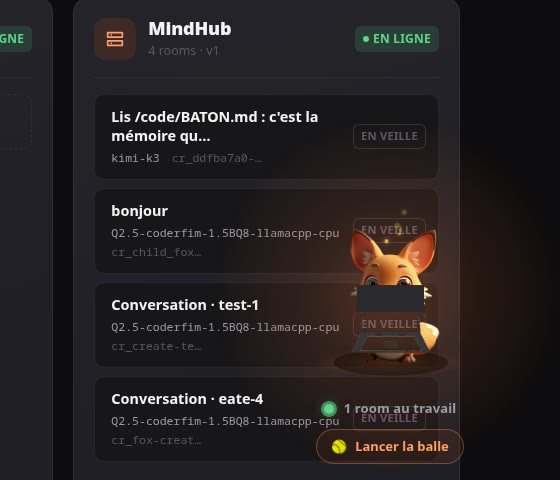
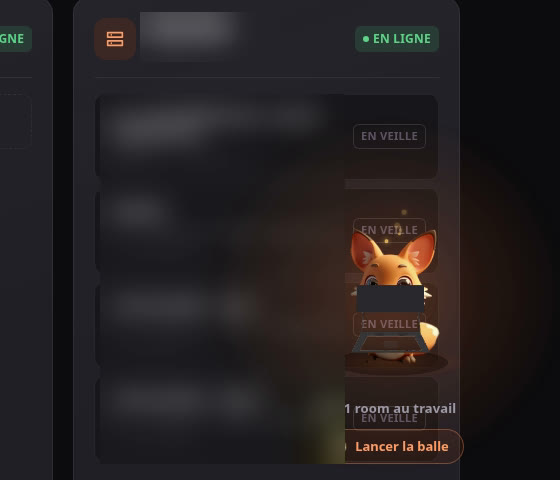
content: publish nothing that maps the infrastructure
Examples now use example ports instead of real internal ones, the
Proxmox page shows a generic layout instead of the real guests, the
proxy page no longer counts sites and certificates nor confesses
settings still to fix, and the app captures blur host names, thread
titles and usage numbers.

diff --git a/content/fr/homelab-proxy.html b/content/fr/homelab-proxy.html
@@ -3,8 +3,8 @@
 
 {{diagram:proxy}}
 
-<h2>Ce que fait le nôtre</h2>
-<p>Une petite VM (4 Go de RAM, partagés avec le filtrage DNS) publie 19 sites avec 35 certificats. Ce site a été mis en ligne par elle aujourd'hui : un conteneur qui sert les pages, une entrée de proxy, un certificat, environ quinze minutes.</p>
+<h2>La preuve que c'est simple</h2>
+<p>Ce site a été mis en ligne exactement ainsi : un conteneur qui sert les pages, une entrée de proxy, un certificat, environ quinze minutes. Une petite VM suffit pour tout un homelab.</p>
 
 <h2>1. Le nom</h2>
 <p>Chez votre registraire de domaine, créez un enregistrement <code>A</code> pour votre domaine et un pour chaque sous-domaine (ou un joker <code>*</code>), qui pointe vers votre adresse IP publique. Vérifiez depuis l'extérieur de votre réseau que le nom répond avant d'aller plus loin.</p>
@@ -33,12 +33,12 @@
 <ol>
 <li><strong>Hosts → Proxy Hosts → Add Proxy Host.</strong></li>
 <li>Noms de domaine : <code>votredomaine.tld</code>, <code>www.votredomaine.tld</code>.</li>
-<li>Redirigez vers l'adresse et le port du service sur votre réseau, par exemple <code>192.0.2.10</code> et <code>8096</code>.</li>
+<li>Redirigez vers l'adresse et le port du service sur votre réseau, par exemple <code>192.0.2.10</code> et <code>8000</code>.</li>
 <li>Onglet <strong>SSL</strong> : demandez un nouveau certificat Let's Encrypt, cochez <strong>Force SSL</strong>.</li>
 </ol>
 <p>Enregistrez : Let's Encrypt vérifie par le port 80 que le nom est bien à vous, délivre le certificat, et NPM le renouvelle avant qu'il n'expire.</p>
 
 <h2>Pièges</h2>
-<p class="note">Ne recopiez pas deux habitudes que nous devons encore corriger chez nous : le tag <code>:latest</code> (une mise à jour arrive le jour où vous redémarrez, sans prévenir ; épinglez une version et montez-la exprès) et <code>privileged: true</code> (le proxy n'a pas besoin du contrôle total de l'hôte).</p>
+<p class="note">Épinglez une version plutôt que <code>:latest</code> : sinon une mise à jour arrive le jour où vous redémarrez, sans prévenir. Et n'ajoutez jamais <code>privileged: true</code> par habitude : un proxy n'a pas besoin du contrôle total de l'hôte.</p>
 <p class="note">Si les demandes de certificat échouent en boucle, arrêtez de réessayer : Let's Encrypt limite le nombre de certificats identiques par semaine. Corrigez d'abord la cause, en général le port 80 non redirigé ou un nom qui ne répond pas encore.</p>
 <p class="note">Vous testez depuis chez vous et le site ne répond pas ? Certaines box ne savent pas reboucler vers leur propre adresse publique. Testez depuis un téléphone en données mobiles avant de soupçonner le proxy.</p>

diff --git a/content/en/homelab-proxy.html b/content/en/homelab-proxy.html
@@ -3,8 +3,8 @@
 
 {{diagram:proxy}}
 
-<h2>What ours does</h2>
-<p>One small VM (4 GB of RAM, shared with DNS filtering) publishes 19 sites with 35 certificates. This site went online through it today: a container serving the pages, one proxy entry, one certificate, about fifteen minutes.</p>
+<h2>Proof it is simple</h2>
+<p>This site went online exactly this way: a container serving the pages, one proxy entry, one certificate, about fifteen minutes. A small VM is plenty for a whole homelab.</p>
 
 <h2>1. The name</h2>
 <p>At your domain registrar, create an <code>A</code> record for your domain and one for each subdomain (or a wildcard <code>*</code>), pointing to your public IP address. Check from outside your network that the name resolves before going further.</p>
@@ -33,12 +33,12 @@
 <ol>
 <li><strong>Hosts → Proxy Hosts → Add Proxy Host.</strong></li>
 <li>Domain names: <code>yourdomain.tld</code>, <code>www.yourdomain.tld</code>.</li>
-<li>Forward to the service's address and port on your network, for example <code>192.0.2.10</code> and <code>8096</code>.</li>
+<li>Forward to the service's address and port on your network, for example <code>192.0.2.10</code> and <code>8000</code>.</li>
 <li>Tab <strong>SSL</strong>: request a new Let's Encrypt certificate, tick <strong>Force SSL</strong>.</li>
 </ol>
 <p>Save: Let's Encrypt checks that you own the name through port 80, issues the certificate, and NPM renews it before it expires.</p>
 
 <h2>Traps</h2>
-<p class="note">Do not copy two habits we still have to fix ourselves: the <code>:latest</code> tag (an update arrives the day you restart, unannounced; pin a version and upgrade on purpose) and <code>privileged: true</code> (the proxy does not need full control of the host).</p>
+<p class="note">Pin a version instead of <code>:latest</code>: otherwise an update arrives the day you restart, unannounced. And never add <code>privileged: true</code> out of habit: a proxy does not need full control of the host.</p>
 <p class="note">If certificate requests keep failing, stop retrying: Let's Encrypt limits how many identical certificates you can get per week. Fix the cause first, usually port 80 not forwarded or a name that does not resolve yet.</p>
 <p class="note">Testing from home and the site does not answer? Some boxes cannot loop back to their own public address. Test from a phone on mobile data before suspecting the proxy.</p>

diff --git a/content/fr/homelab-proxmox.html b/content/fr/homelab-proxmox.html
@@ -3,17 +3,15 @@
 
 {{diagram:proxmox}}
 
-<h2>Ce que fait tourner le nôtre</h2>
-<p>Mesuré sur notre nœud (Proxmox VE 9.2, 16 threads, 30 Go de RAM, un SSD NVMe de 2 To pour les invités, un disque de 8 To pour les sauvegardes) :</p>
+<h2>Ce qu'une machine peut porter</h2>
+<p>Un exemple de répartition pour un nœud comme le nôtre (Proxmox VE 9.2, 16 threads, 30 Go de RAM, un SSD NVMe pour les invités, un gros disque pour les sauvegardes) :</p>
 <div class="table"><table>
 <tr><th>Invité</th><th>Rôle</th><th>RAM</th></tr>
-<tr><td>VM</td><td>proxy inverse avec HTTPS, filtrage DNS</td><td>4 Go</td></tr>
-<tr><td>VM</td><td>suite bureautique, moteur de recherche, gestionnaire de tâches</td><td>9 Go</td></tr>
-<tr><td>VM</td><td>forge de code et sa CI</td><td>6 Go</td></tr>
+<tr><td>VM</td><td>proxy inverse avec HTTPS</td><td>2–4 Go</td></tr>
+<tr><td>VM</td><td>bureautique, recherche, tâches, photos</td><td>8–10 Go</td></tr>
+<tr><td>VM</td><td>forge de code et sa CI</td><td>4–6 Go</td></tr>
 <tr><td>VM</td><td>automatisation et domotique</td><td>4 Go</td></tr>
-<tr><td>VM</td><td>base de connaissance (recherche dans nos notes)</td><td>2 Go</td></tr>
-<tr><td>VM</td><td>coffre privé, tenu à part</td><td>3 Go</td></tr>
-<tr><td>conteneur</td><td>un petit modèle juge sur processeur</td><td>—</td></tr>
+<tr><td>conteneur</td><td>un petit service chacun</td><td>0,5–2 Go</td></tr>
 </table></div>
 <p>Un vieux PC de bureau ou un mini PC suffit pour commencer. Ce qui compte : la RAM (16 Go minimum, 32 Go confortable), un SSD pour les invités, et un second disque pour les sauvegardes.</p>
 

diff --git a/content/en/homelab-proxmox.html b/content/en/homelab-proxmox.html
@@ -3,17 +3,15 @@
 
 {{diagram:proxmox}}
 
-<h2>What ours runs</h2>
-<p>Measured on our node (Proxmox VE 9.2, 16 threads, 30 GB of RAM, a 2 TB NVMe SSD for the guests, an 8 TB disk for backups):</p>
+<h2>What one machine can carry</h2>
+<p>An example layout for a node like ours (Proxmox VE 9.2, 16 threads, 30 GB of RAM, an NVMe SSD for the guests, a large disk for backups):</p>
 <div class="table"><table>
 <tr><th>Guest</th><th>Role</th><th>RAM</th></tr>
-<tr><td>VM</td><td>reverse proxy with HTTPS, DNS filtering</td><td>4 GB</td></tr>
-<tr><td>VM</td><td>office suite, search engine, task manager</td><td>9 GB</td></tr>
-<tr><td>VM</td><td>code forge and its CI</td><td>6 GB</td></tr>
+<tr><td>VM</td><td>reverse proxy with HTTPS</td><td>2–4 GB</td></tr>
+<tr><td>VM</td><td>office suite, search, tasks, photos</td><td>8–10 GB</td></tr>
+<tr><td>VM</td><td>code forge and its CI</td><td>4–6 GB</td></tr>
 <tr><td>VM</td><td>automation and home assistant</td><td>4 GB</td></tr>
-<tr><td>VM</td><td>knowledge base (search over our notes)</td><td>2 GB</td></tr>
-<tr><td>VM</td><td>private vault, kept apart</td><td>3 GB</td></tr>
-<tr><td>container</td><td>a small judge model on the CPU</td><td>—</td></tr>
+<tr><td>container</td><td>one small service each</td><td>0.5–2 GB</td></tr>
 </table></div>
 <p>An old desktop or a mini PC is enough to start. What matters: RAM (16 GB minimum, 32 GB comfortable), an SSD for the guests, and a second disk for backups.</p>
 

diff --git a/content/en/homelab-vaultwarden.html b/content/en/homelab-vaultwarden.html
@@ -12,7 +12,7 @@
     image: vaultwarden/server:1.37.4
     restart: unless-stopped
     ports:
-      - "8080:80"
+      - "8200:80"
     volumes:
       - ./vw-data:/data
     environment:

diff --git a/content/fr/homelab-vaultwarden.html b/content/fr/homelab-vaultwarden.html
@@ -12,7 +12,7 @@
     image: vaultwarden/server:1.37.4
     restart: unless-stopped
     ports:
-      - "8080:80"
+      - "8200:80"
     volumes:
       - ./vw-data:/data
     environment:

diff --git a/diagrams.py b/diagrams.py
@@ -204,11 +204,11 @@ def hybrid(lang):
 def proxmox(lang):
     L = {
         "en": labels(cap="One machine runs every service in its own guest. Backups go to a second disk every night; administration goes through a private network, never the internet.",
-                   node="One machine · Proxmox VE", guests=["proxy", "office", "forge", "automation", "notes", "vault", "judge"],
+                   node="One machine · Proxmox VE", guests=["proxy", "office", "photos", "forge", "automation", "search", "tasks"],
                    nvme="SSD · guests", hdd="2nd disk · backups", nightly="nightly backup", you="Your laptop",
                    ts="Tailscale / WireGuard", net="internet", no="port 8006 closed"),
         "fr": labels(cap="Une machine fait tourner chaque service dans son propre invité. Les sauvegardes partent chaque nuit sur un second disque ; l'administration passe par un réseau privé, jamais par Internet.",
-                   node="Une machine · Proxmox VE", guests=["proxy", "bureautique", "forge", "automatisation", "notes", "coffre", "juge"],
+                   node="Une machine · Proxmox VE", guests=["proxy", "bureautique", "photos", "forge", "automatisation", "recherche", "tâches"],
                    nvme="SSD · invités", hdd="2e disque · sauvegardes", nightly="sauvegarde nocturne", you="Votre portable",
                    ts="Tailscale / WireGuard", net="Internet", no="port 8006 fermé"),
     }[lang]
@@ -236,12 +236,12 @@ def proxy(lang):
         "en": labels(cap="One entrance. The box forwards only 80 and 443 to the proxy; the proxy reads the requested name and passes the request to the right service on your network. The admin port 81 never leaves home.",
                      net="internet", dns="DNS: *.yourdomain → your public IP", box="Your box", bsub="forwards 80, 443",
                      npm="Reverse proxy", nsub="HTTPS, certificates", home="your network",
-                     svc=[("site", "port 8096"), ("forge", "port 3000"), ("photos", "port 2283")],
+                     svc=[("site", "port 8000"), ("forge", "port 8001"), ("photos", "port 8002")],
                      host="by requested name", admin="admin :81, LAN only", le="Let's Encrypt checks port 80"),
         "fr": labels(cap="Une seule entrée. La box ne transmet que 80 et 443 au proxy ; le proxy lit le nom demandé et passe la requête au bon service de votre réseau. Le port d'administration 81 ne sort jamais de la maison.",
                      net="Internet", dns="DNS : *.votredomaine → votre IP publique", box="Votre box", bsub="transmet 80, 443",
                      npm="Proxy inverse", nsub="HTTPS, certificats", home="votre réseau",
-                     svc=[("site", "port 8096"), ("forge", "port 3000"), ("photos", "port 2283")],
+                     svc=[("site", "port 8000"), ("forge", "port 8001"), ("photos", "port 8002")],
                      host="selon le nom demandé", admin="admin :81, LAN seulement", le="Let's Encrypt vérifie le port 80"),
     }[lang]
     body = t(60, 30, L["net"], 12, "middle", MUTED)
